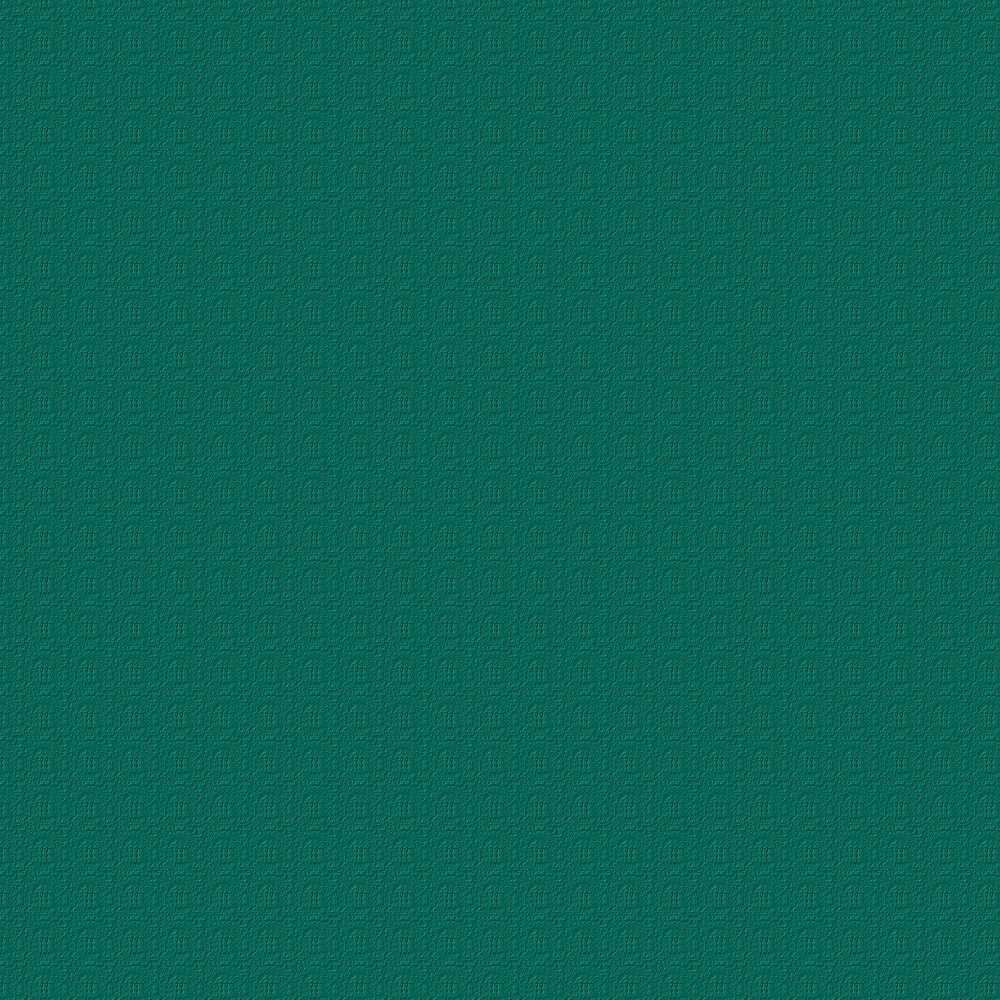
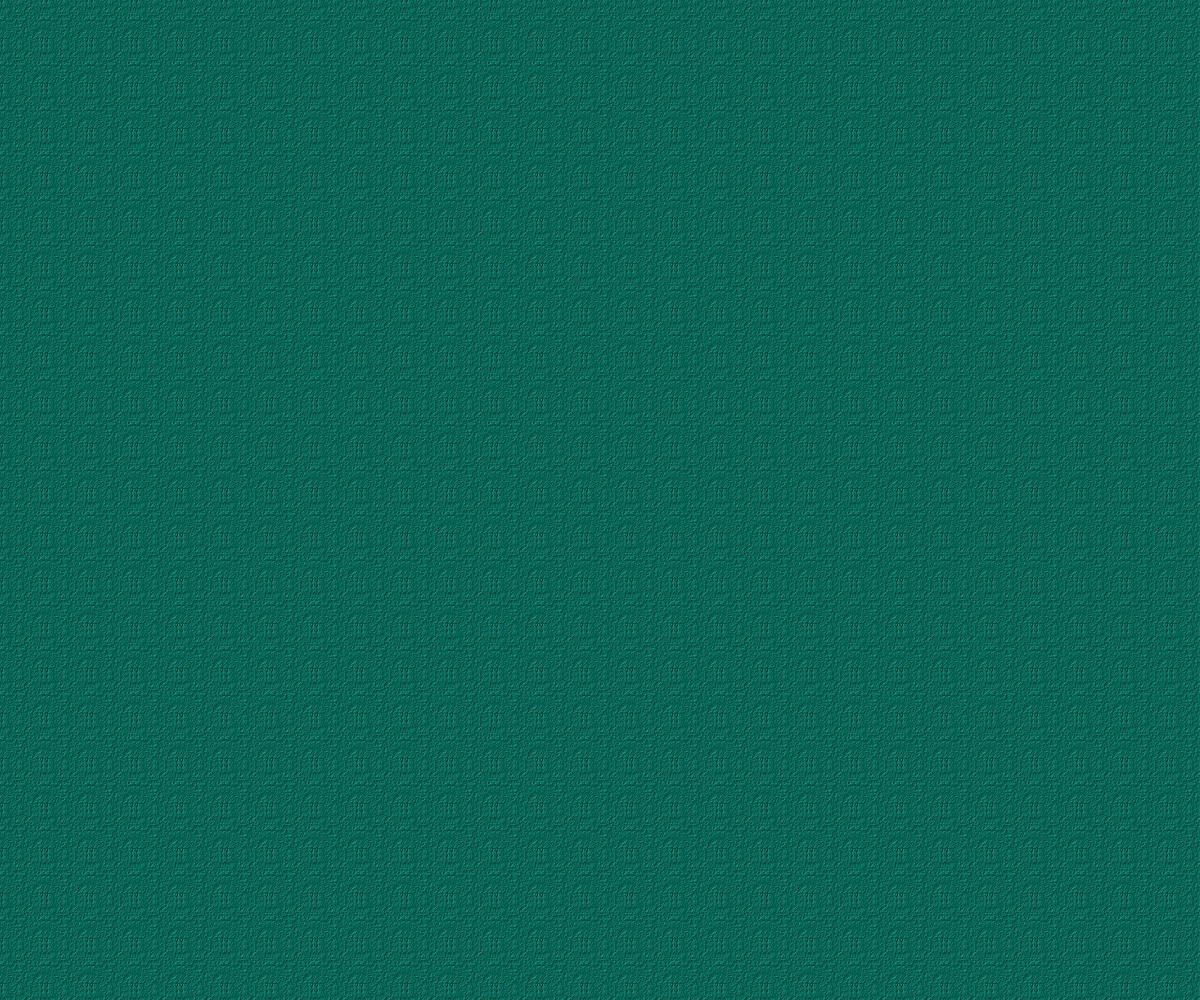
made it 1200x1000

Changed region(s): [[0.0, 0.0, 1.0, 1.0]]

diff --git a/app/display.py b/app/display.py
@@ -116,11 +116,11 @@ class game_display(basic_display):
         self.bullets_left_image = custom_images.Custom_image(self, 'img/bullet_icon.png', 220, self.game.height - 55, 50, 50, append=False)
         self.bullets_left_text = custom_text.Custom_text(self,  285, self.game.height - 50, self.game.font, 50, f'X {self.player.bullets}', text_color=(255, 255, 255), append=False)
         self.reloading_text = custom_text.Custom_text(self, 115, self.game.height - 190, self.game.font, 50, f'Reloading...', text_color=(255, 255, 255), append=False)
-        self.phase_info = custom_text.Custom_text(self, 800, self.game.height - 115, self.game.font, 35,
+        self.phase_info = custom_text.Custom_text(self, self.game.width - 200, self.game.height - 115, self.game.font, 35,
                                                          f'{self.game.get_event()}',
                                                          text_color=(255, 255, 255), append=False)
 
-        self.time_left = custom_text.Custom_text(self, 800, self.game.height - 65,"Comic Sans", 50,
+        self.time_left = custom_text.Custom_text(self, self.game.width - 200, self.game.height - 65,"Comic Sans", 50,
                                                          f'{self.game.timeLeft}',
                                                          text_color=(255, 255, 255), append=False, system=True)
         self.money = custom_text.Custom_text(self, 285, self.game.height - 115, self.game.font,

diff --git a/app/config.py b/app/config.py
@@ -5,7 +5,7 @@ import os
 def set_config():  # Function that will create the config file or update it if it's out of date
     config = ConfigParser()
     config_file = 'config.ini'  # Path to config file
-    version = '0.17.0'  # Current version
+    version = '0.18.0'  # Current version
 
     if not os.path.exists(config_file):  # Checks if configuration file exists
 
@@ -32,7 +32,7 @@ def set_config():  # Function that will create the config file or update it if i
 def generate_default_config_data(version):
     return {
         'version': version,
-        'width': 1000,
+        'width': 1200,
         'height': 1000,
         'fps': 60,
         'title': 'A Dreadful Minute',

diff --git a/app/enemy.py b/app/enemy.py
@@ -13,7 +13,7 @@ class Enemy:
         if random.randint(0, 1):
             self.x = -30
         else:
-            self.x = 1030
+            self.x = self.display.game.width + 30
 
         self.y = random.randint(50, 950)
         self.radius = 25
